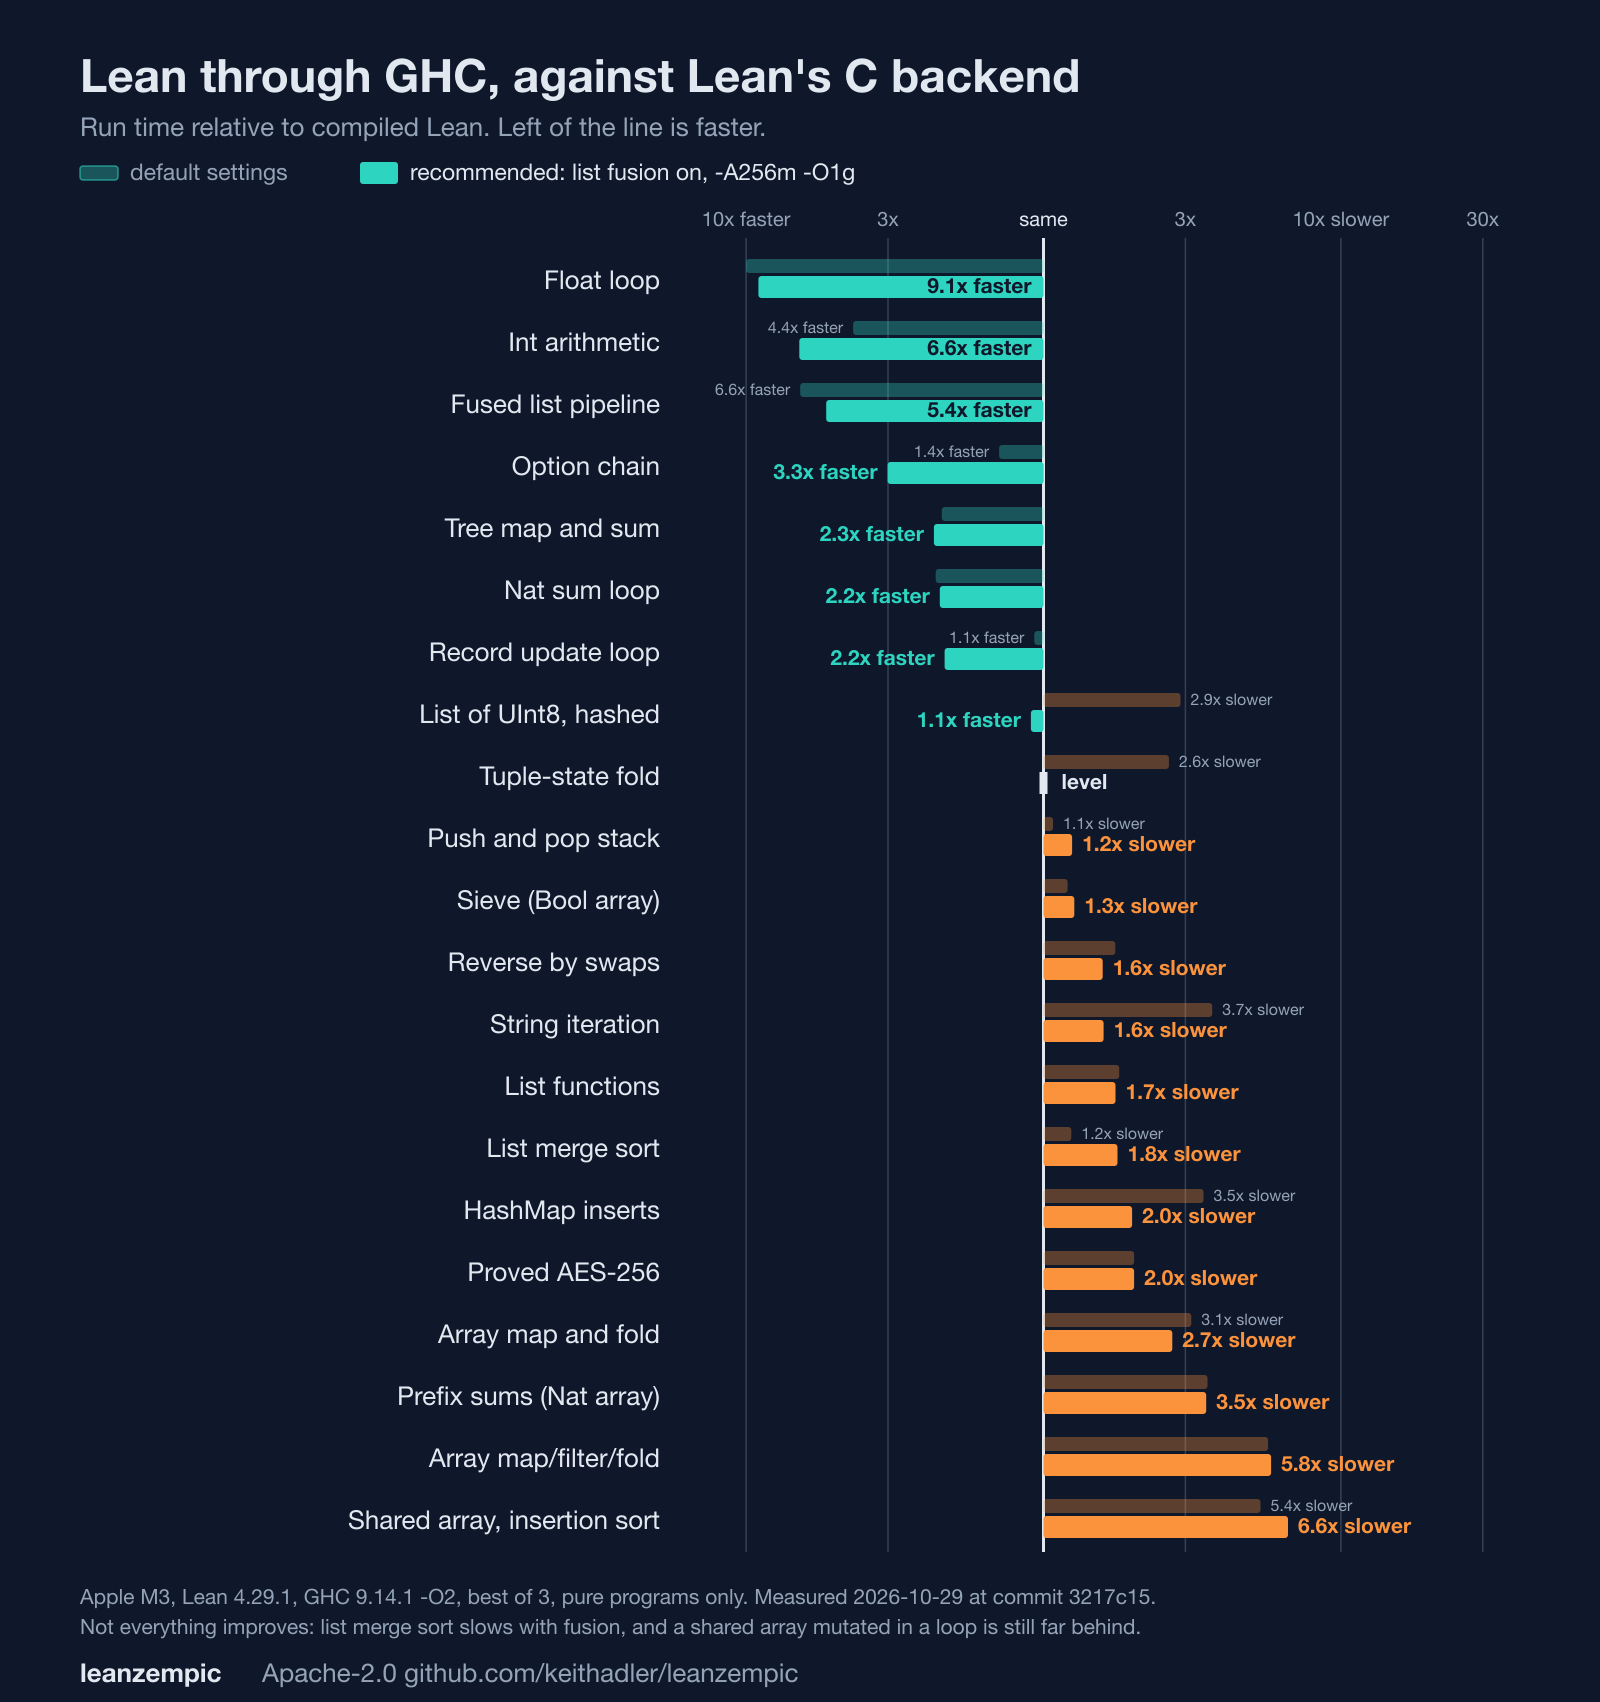
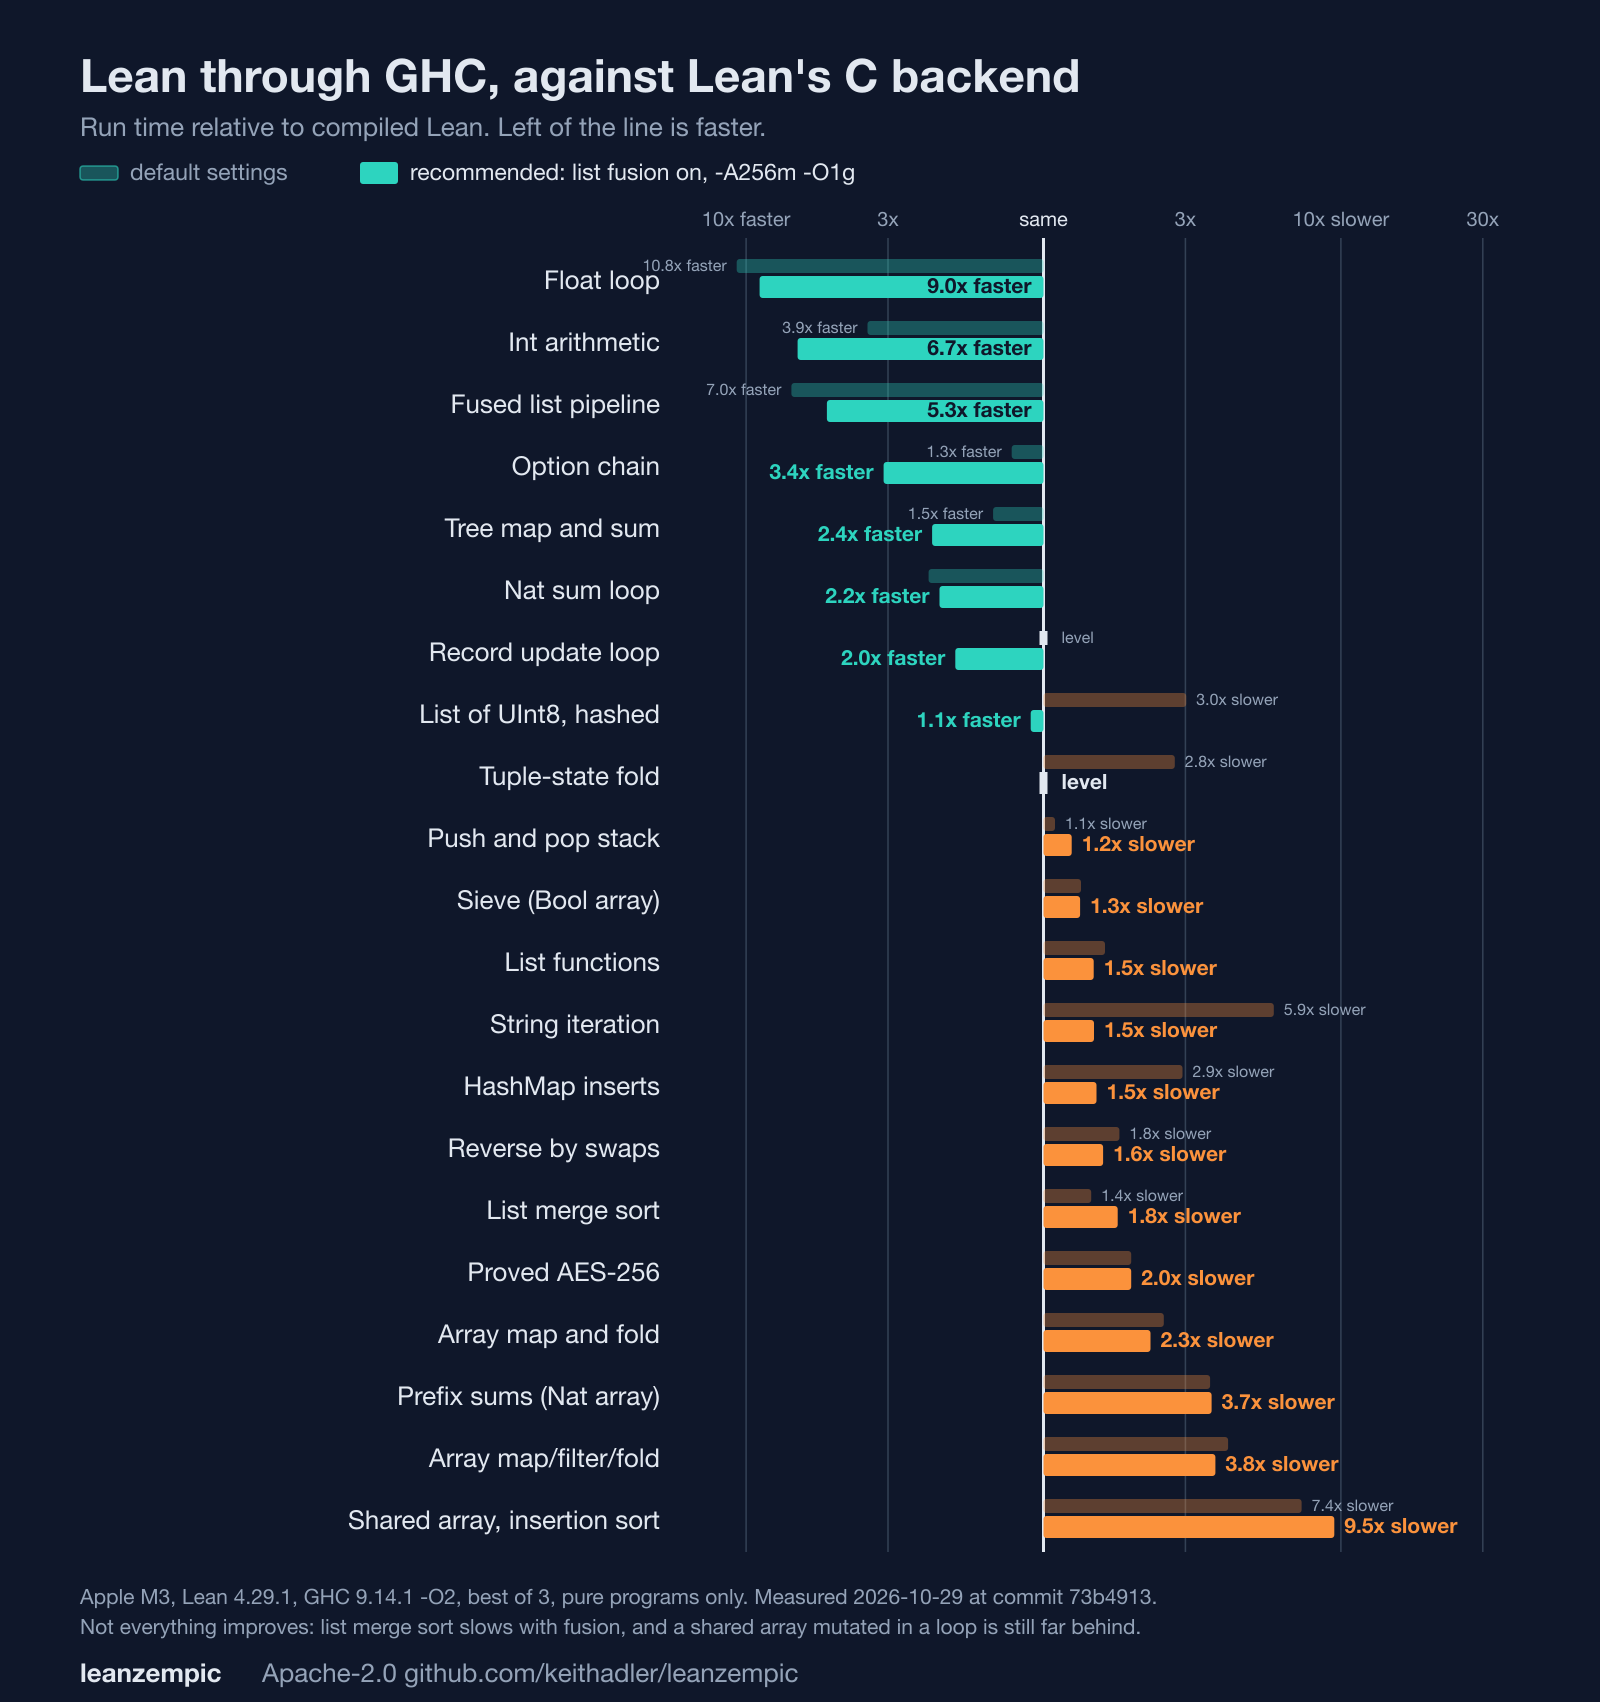
Chart and docs at 73b4913

diff --git a/README.md b/README.md
@@ -10,7 +10,7 @@ list fusion, unboxing) decides how your Lean program runs, instead of Lean's C b
   and GHC 9.14.1 only. CI runs the test suite on both, with a 36-program subset of the garden.
 * Honest one-line summary: up to 9x faster than Lean's C backend on numeric, `Int`, `Float`, record and
   fused-list code; with the recommended settings, between level and 3x slower on lists, tuples,
-  strings and hash maps (up to 4x slower with defaults); 3.5x to 7x slower on arrays, which is the main
+  strings and hash maps (up to 4x slower with defaults); 3.5x to 9x slower on arrays, which is the main
   open problem. See [Benchmarks](#benchmarks) for every number, including the losses.
 
 ![Run time of the Haskell output relative to compiled Lean, with default settings and with list fusion on and -A256m -O1g](docs/bench-chart.png)
@@ -580,7 +580,7 @@ Reading these honestly:
 `garden/perf.py` times 40 or so of the garden programs against compiled native Lean (details and
 profiles in [`BENCH.md`](BENCH.md)). Short version: arithmetic, `Int`, `Float`, records and trees are
 level or faster (down to 0.1x for a `Float` loop); lists, arrays, hash maps and strings built from
-pieces are 2x to 7x slower; an array that a caller shares and a loop mutates is about 7x slower
+pieces are 2x to 7x slower; an array that a caller shares and a loop mutates is about 5x to 9x slower
 (Lean copies it once; this backend copies lazily on the first write, then runs in place).
 
 **Run Haskell output with a large allocation area, and know what it costs.** Garbage collection is
@@ -915,7 +915,7 @@ Ideas in rough order of value, none promised:
 
 * the array gap (2x to 10x), the main open problem: copying a shared array once on entry to a loop
   that mutates it, as Lean does (the undo chain is already bounded, which took the shared-array insertion
-  sort from 18x to about 10x, then lazy copies on first write to about 7x); the rest is the cost of the persistent representation
+  sort from 18x to about 10x, then lazy copies on first write to 5x to 9x); the rest is the cost of the persistent representation
 * making fusion the default (it is 2x to 5x on list pipelines but slower natively and on one merge
   sort), and more combinators (`reverse`, `filterMap`, `zipWith`, array and `for` loops)
 * unboxed list elements and pair components (they are `Any` today)

diff --git a/BENCH.md b/BENCH.md
@@ -384,7 +384,7 @@ process start-up, about 15 ms with `-A128m`) and are not reported. Of the rest:
 
 **The pattern.** Arithmetic, records, `Int`, `Float` and trees are level or faster. Everything that
 holds many boxed elements (lists, arrays, hash maps, strings built from pieces) is 2x to 7x slower,
-and the one case where an array is both shared and mutated in a loop is about 7x (lazy copies).
+and the one case where an array is both shared and mutated in a loop is about 5x to 9x (lazy copies).
 
 **Why, from the profiles.**
 
@@ -514,8 +514,8 @@ measurements) so the columns are comparable. All answers match native Lean.
 | string iteration | 1e6 | 3.6x slower | 1.4x slower |
 | `HashMap` inserts | 3e6 | 3.1x slower | 1.6x slower |
 | list functions | 1e6 | 4.3x slower | 2.7x slower |
-| array map/filter/fold | 2e6 | 5.4x slower | 4.2x slower |
-| shared array, insertion sort | 3e3 | 23x slower | 6.9x slower |
+| array map/filter/fold | 2e6 | 5.4x slower | 3.8x slower |
+| shared array, insertion sort | 3e3 | 23x slower | 5x to 9.5x slower (a 9 ms run, noisy) |
 | list merge sort | 3e5 | 1.2x slower | 1.7x slower |
 | `Float` loop, tree map, `Nat` sum loop, AES-256 | | unchanged | unchanged |
 

diff --git a/CHANGELOG.md b/CHANGELOG.md
@@ -3,6 +3,11 @@
 All notable changes. The project follows semantic versioning once it has a release; until then
 everything is pre-release (`0.1.0`).
 
+## Unreleased
+
+* `Array.map`'s placeholder write is skipped when the next write overwrites it (array map/filter/fold 5.3x to 3.9x).
+* Unrolled variants use `INLINABLE`, so `string_pos` builds at `-O2`; known issue below is fixed.
+
 ## 0.1.0-rc2 (2026-10-29)
 
 Bounded undo chains and lazy copies for shared arrays. Shared-array insertion sort: 18x (rc1) to 6.9x slower
